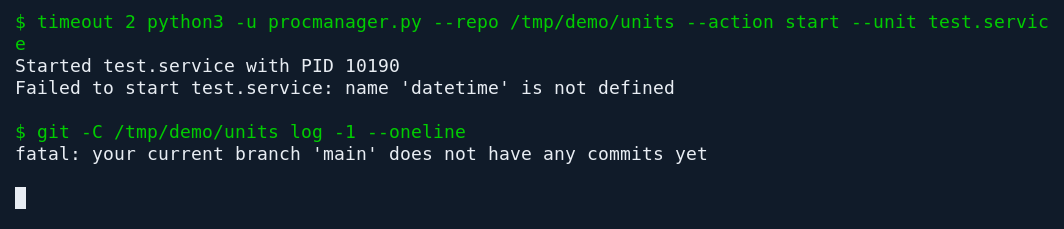
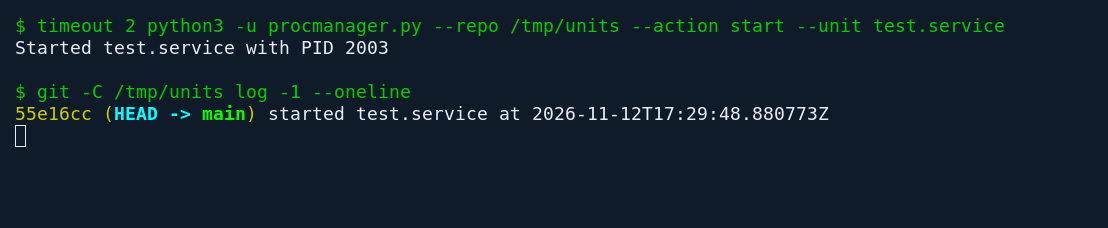
Уточнить результаты проверки и снимки терминала

diff --git a/procmanager.py b/procmanager.py
@@ -1,4 +1,5 @@
 import argparse
+import datetime
 import os
 import subprocess
 import threading

diff --git a/README.md b/README.md
@@ -22,7 +22,7 @@ python3 procmanager.py --repo "$units" --action start --unit test.service
 
 ## Что проверено
 
-Проверены чтение файла службы, запуск процесса и создание первого коммита. PID хранится в памяти менеджера, поэтому отдельный вызов CLI не восстанавливает состояние уже запущенного экземпляра.
+В опубликованной версии добавлен пропущенный импорт datetime для записи времени в Git. Проверены чтение файла службы, запуск процесса и создание первого коммита. PID хранится в памяти менеджера, поэтому отдельный вызов CLI не восстанавливает состояние уже запущенного экземпляра.
 
 ## Авторство
 
